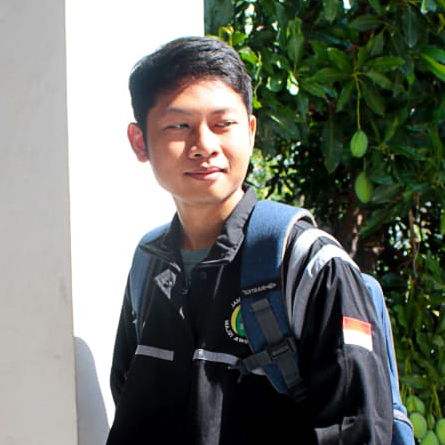
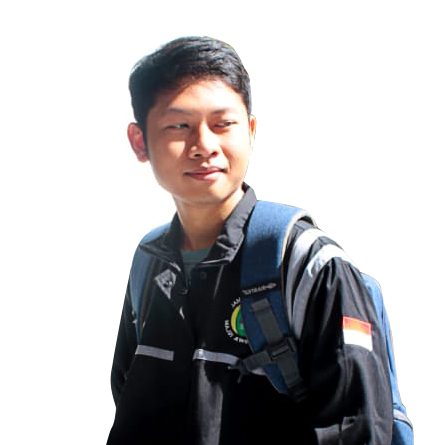
ganti profile

diff --git a/index.html b/index.html
@@ -64,10 +64,10 @@
           </div>
           <div class="row justify-content-center fs-5 text-center">
             <div class="col-md-4">
-              <p>Lorem ipsum dolor sit amet consectetur, adipisicing elit. Nemo voluptas ratione soluta quaerat iure, quasi dolor rem doloribus beatae aperiam.</p>
+              <p>Hi, i am yogi. I am freelance graphic designer from Indonesia. I specialize in template design, and photo manipulation.</p>
             </div>
             <div class="col-md-4">
-              <p>Lorem ipsum dolor sit amet consectetur adipisicing elit. Aperiam quae assumenda ex eveniet ipsa enim, laudantium quam. Tempora cum ducimus pariatur minus amet nobis at.</p>
+              <p> اعملوا , فَكلٌّ مُيَسَّرٌ لما خُلِقَ له | Ber-amal-lah kalian, semua akan dimudahkan menuju urusannya</p>
             </div>
           </div>
         </div>
@@ -86,7 +86,7 @@
             <div class="row justify-content-center">
               <div class="col-md-4 mb-3">
                 <div class="card" style="width: 18rem;">
-                  <img src="img/brosur.jpg" class="card-img-top" alt="brosur">
+                  <img src="img/brosur.png" class="card-img-top" alt="brosur">
                   <div class="card-body">
                     <p class="card-text text-center text-secondary">Contoh Desain Poster & Brosur</p>
                   </div>
@@ -94,7 +94,7 @@
               </div>
               <div class="col-md-4 mb-3">
                 <div class="card" style="width: 18rem;">
-                  <img src="img/kripik.jpg" class="card-img-top" alt="kripik">
+                  <img src="img/kripik.png" class="card-img-top" alt="kripik">
                   <div class="card-body">
                     <p class="card-text text-center text-secondary">Mockup Packaging Kripik Nangka Khas Desa Pakuan Narmada</p>
                   </div>
@@ -102,7 +102,7 @@
               </div>
               <div class="col-md-4 mb-3">
                 <div class="card" style="width: 18rem;">
-                  <img src="img/render.jpg" class="card-img-top" alt="render">
+                  <img src="img/render.png" class="card-img-top" alt="render">
                   <div class="card-body">
                     <p class="card-text text-center text-secondary ">3D Modeling & Rendering Musholla Baitul Ilmi Universitas Bumigora</p>
                   </div>
@@ -110,7 +110,7 @@
               </div>
               <div class="col-md-4 mb-3">
                 <div class="card" style="width: 18rem;">
-                  <img src="img/profil.jpg" class="card-img-top" alt="profil">
+                  <img src="img/profil.png" class="card-img-top" alt="profil">
                   <div class="card-body">
                     <p class="card-text text-center text-secondary">Profil Vector</p>
                   </div>
@@ -118,7 +118,7 @@
               </div>
               <div class="col-md-4 mb-3">
                 <div class="card" style="width: 18rem;">
-                  <img src="img/ustadzadi.jpg" class="card-img-top" alt="ustadzadi">
+                  <img src="img/ustadzadi.png" class="card-img-top" alt="ustadzadi">
                   <div class="card-body">
                     <p class="card-text text-center text-secondary">Vector Ustadz Adi Hidayat Lc.MA.,</p>
                   </div>
